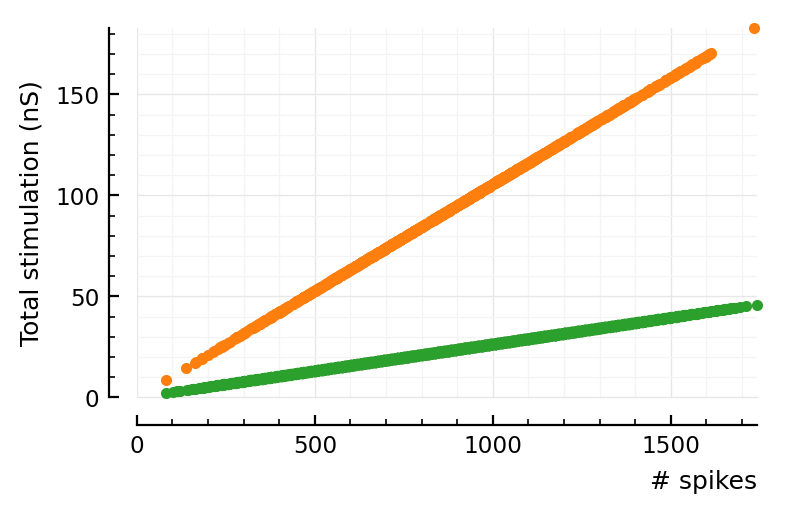
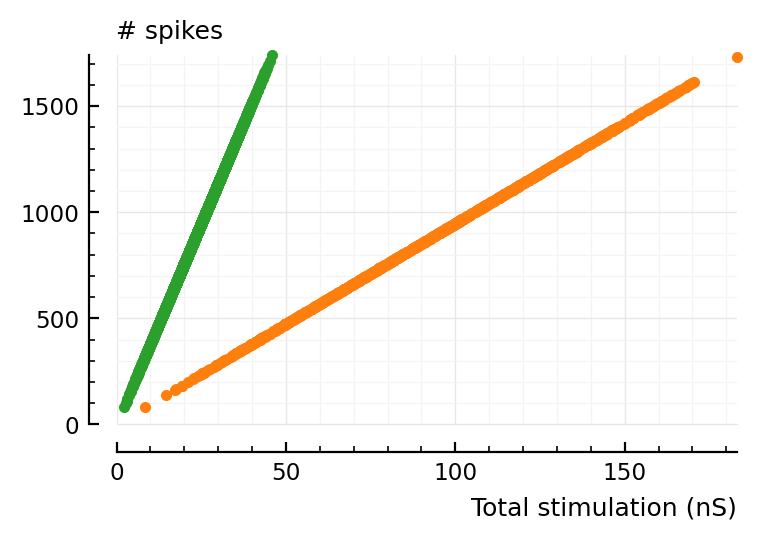
deploy: 9928c14505766c86613de1ab17e9f0dedefd6df1

diff --git a/nb/2022-03-28__total_stimulation.html b/nb/2022-03-28__total_stimulation.html
@@ -772,11 +772,11 @@ const thebe_selector_output = ".output, .cell_output"
 </div>
 <div class="cell docutils container">
 <div class="cell_input docutils container">
-<div class="highlight-julia notranslate"><div class="highlight"><pre><span></span><span class="n">ax</span> <span class="o">=</span> <span class="n">plot</span><span class="p">(</span><span class="n">num_spikes</span><span class="o">.</span><span class="n">conn</span><span class="o">.</span><span class="n">exc</span><span class="p">,</span> <span class="n">total_stim</span><span class="o">.</span><span class="n">exc</span> <span class="o">/</span> <span class="n">nS</span><span class="p">,</span> <span class="s">"C2."</span><span class="p">,</span> <span class="n">clip_on</span><span class="o">=</span><span class="nb">false</span><span class="p">)</span>
-<span class="n">ax</span> <span class="o">=</span> <span class="n">plot</span><span class="p">(</span><span class="n">num_spikes</span><span class="o">.</span><span class="n">conn</span><span class="o">.</span><span class="n">inh</span><span class="p">,</span> <span class="n">total_stim</span><span class="o">.</span><span class="n">inh</span> <span class="o">/</span> <span class="n">nS</span><span class="p">,</span> <span class="s">"C1."</span><span class="p">,</span> <span class="n">ax</span><span class="p">,</span> <span class="n">clip_on</span><span class="o">=</span><span class="nb">false</span><span class="p">)</span>
+<div class="highlight-julia notranslate"><div class="highlight"><pre><span></span><span class="n">ax</span> <span class="o">=</span> <span class="n">plot</span><span class="p">(</span><span class="n">total_stim</span><span class="o">.</span><span class="n">exc</span> <span class="o">/</span> <span class="n">nS</span><span class="p">,</span> <span class="n">num_spikes</span><span class="o">.</span><span class="n">conn</span><span class="o">.</span><span class="n">exc</span><span class="p">,</span> <span class="s">"C2."</span><span class="p">,</span> <span class="n">clip_on</span><span class="o">=</span><span class="nb">false</span><span class="p">)</span>
+<span class="n">ax</span> <span class="o">=</span> <span class="n">plot</span><span class="p">(</span><span class="n">total_stim</span><span class="o">.</span><span class="n">inh</span> <span class="o">/</span> <span class="n">nS</span><span class="p">,</span> <span class="n">num_spikes</span><span class="o">.</span><span class="n">conn</span><span class="o">.</span><span class="n">inh</span><span class="p">,</span> <span class="s">"C1."</span><span class="p">,</span> <span class="n">ax</span><span class="p">,</span> <span class="n">clip_on</span><span class="o">=</span><span class="nb">false</span><span class="p">)</span>
 <span class="n">ax</span><span class="o">.</span><span class="n">set_xlim</span><span class="p">(</span><span class="n">left</span><span class="o">=</span><span class="mi">0</span><span class="p">)</span>
 <span class="n">ax</span><span class="o">.</span><span class="n">set_ylim</span><span class="p">(</span><span class="n">bottom</span><span class="o">=</span><span class="mi">0</span><span class="p">)</span>
-<span class="n">set</span><span class="p">(</span><span class="n">ax</span><span class="p">,</span> <span class="n">xlabel</span><span class="o">=</span><span class="s">"# spikes"</span><span class="p">,</span> <span class="n">ylabel</span><span class="o">=</span><span class="s">"Total stimulation (nS)"</span><span class="p">);</span>
+<span class="n">set</span><span class="p">(</span><span class="n">ax</span><span class="p">,</span> <span class="n">hylabel</span><span class="o">=</span><span class="s">"# spikes"</span><span class="p">,</span> <span class="n">xlabel</span><span class="o">=</span><span class="s">"Total stimulation (nS)"</span><span class="p">);</span>
 </pre></div>
 </div>
 </div>
